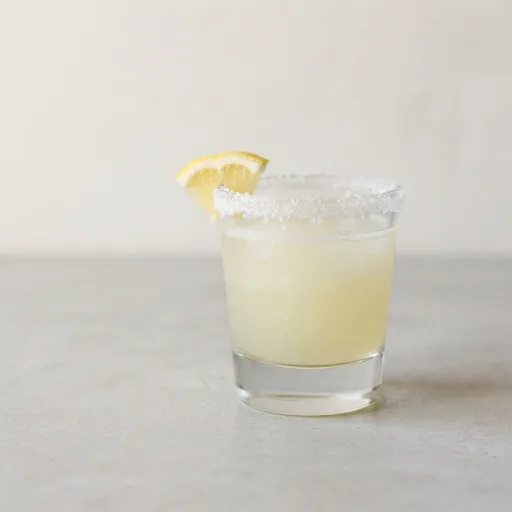
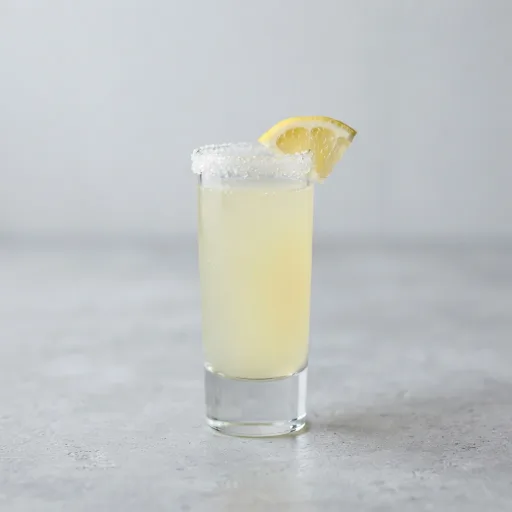
Complete the cocktail photographs at 150 of 150
Black Russian was the last entry without one — its prompt went out with
the other 58 but that batch came back two images short. Vegas Bomb and
Lemon Drop replace frames that were usable but wrong in a specific way:
the bomb showed no shot glass submerged in the pint, and the shot was
served in a squat tumbler rather than a shot glass. Both now show what
the name describes.

The three arrived as chat attachments rather than generator exports, so
they carried no prompt to parse and were saved with opaque names. Placed
as id-named masters instead, which is what that path was added for.

Written as .png over the existing masters rather than added alongside as
.webp: two files for one drink would be two candidates, and the
largest-file rule would have quietly restored the frames being replaced.

Every cocktail in the dex now has a photograph. Beer, wine and spirits —
310 entries — still render the procedural artwork.

diff --git a/src/data/drinkPhotos.ts b/src/data/drinkPhotos.ts
@@ -2,7 +2,7 @@
  * Photographs for dex entries that have one.
  *
  * GENERATED by scripts/build-drink-photos.mjs — do not edit by hand.
- * Coverage is partial (149 of 460 entries); everything else falls
+ * Coverage is partial (150 of 460 entries); everything else falls
  * back to the procedural artwork in components/artwork.
  *
  * The requires are written out one per line because Metro resolves them
@@ -129,6 +129,7 @@ const PHOTOS: Record<string, number> = {
   'mimosa': require('../../assets/drinks/mimosa.webp'),
   'negroni-sbagliato': require('../../assets/drinks/negroni-sbagliato.webp'),
   'seelbach': require('../../assets/drinks/seelbach.webp'),
+  'black-russian': require('../../assets/drinks/black-russian.webp'),
   'boulevardier': require('../../assets/drinks/boulevardier.webp'),
   'hanky-panky': require('../../assets/drinks/hanky-panky.webp'),
   'manhattan': require('../../assets/drinks/manhattan.webp'),
@@ -166,4 +167,4 @@ export function drinkPhoto(id: string): number | undefined {
 }
 
 /** How many entries ship with a photograph. */
-export const PHOTO_COUNT = 149;
+export const PHOTO_COUNT = 150;
